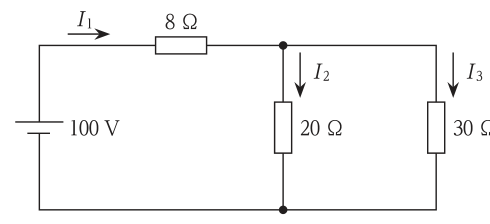
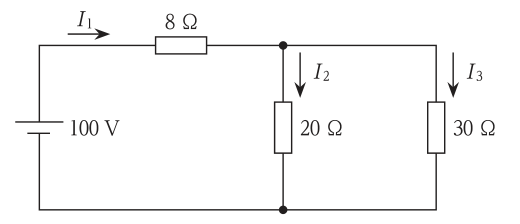
Fix sekou-2denki review findings (R7後期 No.1/19/22/54, R8前期 No.3 figure)
Claude-Session: https://claude.ai/code/session_01TieomDrMbKnngzErrXyir1

diff --git a/__tests__/questions/denki2-latest2.test.ts b/__tests__/questions/denki2-latest2.test.ts
@@ -49,6 +49,37 @@ describe("sekou-2denki latest two official papers, staged", () => {
     }
   });
 
+  it("distinguishes the 20 A and 15 A 250 V outlet figures in R7 late No.19", () => {
+    const q = DENKI2_QUESTIONS.find(q => q.year === 2025 && q.qNumber === 19)!;
+    expect(q.answer).toBe("イ");
+    expect(q.choiceExplanations?.イ).toContain("250 V・20 A");
+    expect(q.choiceExplanations?.イ).toContain("単相200 V回路に使用できる");
+    expect(q.choices?.エ).toContain("左右が横スリット");
+    expect(q.choiceExplanations?.エ).toContain("250 V・15 A");
+    expect(q.choiceExplanations?.エ).toContain("20 A用ではない");
+    expect(q.explanation).toContain(q.choiceExplanations!.イ!);
+  });
+
+  it("explains why earth-fault current is least related in R7 late No.22", () => {
+    const q = DENKI2_QUESTIONS.find(q => q.year === 2025 && q.qNumber === 22)!;
+    expect(q.answer).toBe("ウ");
+    expect(q.choices?.ウ).toBe("地絡電流");
+    expect(q.choiceExplanations?.ウ).toContain("中性点非接地");
+    expect(q.choiceExplanations?.ウ).toContain("最も関係のないもの");
+    expect(q.choiceExplanations?.エ).toContain("遮断器か限流ヒューズか");
+    expect(q.choiceExplanations?.エ).toContain("太さを選定する");
+    expect(q.explanation).toContain(q.choiceExplanations!.ウ!);
+  });
+
+  it("preserves the reciprocal temperature unit and the answer insertion slot", () => {
+    const rows = DENKI2_QUESTIONS.filter(q => q.year === 2025);
+    expect(rows.find(q => q.qNumber === 1)!.question).toContain("0.004 ℃⁻¹");
+    const blank = rows.find(q => q.qNumber === 54)!;
+    expect(blank.question).toMatch(/10 kW 以上\s*〔空欄〕未満/);
+    const key = Array.isArray(blank.answer) ? blank.answer[0] : blank.answer;
+    expect(key ? blank.choices?.[key as keyof NonNullable<typeof blank.choices>] : undefined).toBe("50 kW");
+  });
+
   it("registers the owner-approved qualification while keeping every public registry gated", async () => {
     expect(getQualificationByExamCode("denki2")).toMatchObject({slug: "sekou-2denki", status: "ready-to-ingest"});
     expect(isExamPublished("denki2")).toBe(false);

diff --git a/reports/sekou-2denki/finalize-source.py b/reports/sekou-2denki/finalize-source.py
@@ -6,7 +6,7 @@ from pathlib import Path
 import pymupdf as fitz
 ROOT=Path(__file__).resolve().parents[2]
 FIGURES={
- '2026-early':{2:(2,[170,373,465,466]),3:(3,[190,173,435,285]),13:(7,[155,150,445,309]),22:(10,[115,150,520,568]),35:(14,[155,315,480,465]),36:(15,[135,163,325,329]),39:(16,[143,162,485,349])},
+ '2026-early':{2:(2,[170,373,465,466]),3:(3,[190,173,450,285]),13:(7,[155,150,445,309]),22:(10,[115,150,520,568]),35:(14,[155,315,480,465]),36:(15,[135,163,325,329]),39:(16,[143,162,485,349])},
  '2025-late':{2:(2,[180,390,465,475]),3:(3,[185,190,440,300]),15:(7,[215,211,415,383]),19:(8,[105,480,425,648]),21:(9,[190,413,435,597]),31:(13,[145,313,435,487]),33:(14,[105,330,500,625]),34:(15,[180,155,450,313]),35:(15,[205,470,430,661]),36:(16,[130,179,305,370]),38:(17,[160,170,480,431]),39:(18,[105,192,525,372]),49:(22,[230,154,405,336]),50:(23,[210,156,420,336])}}
 ledger=[]
 for edition,y in [('2026-early','08'),('2025-late','07')]:
@@ -22,7 +22,7 @@ for edition,y in [('2026-early','08'),('2025-late','07')]:
   q(36)['choices']=['図1（枠内ATT） ― 局線中継台','図2（枠内IDF） ― ハブ','図3（枠内TA） ― ターミナルアダプタ','図4（枠内に横線） ― 端子盤']
   q(56)['choices'][3]=q(56)['choices'][3].replace('mm2','mm²')
  else:
-  q(1)['question']=q(1)['question'].replace('℃-1','℃⁻¹')
+  q(1)['question']=q(1)['question'].replace('℃-1','℃⁻¹').replace('℃－1','℃⁻¹')
   q(2)['question']='図に示すように，真空中に点電荷Q₁及びQ₂がある。この二つの点電荷の間に働く静電力Fの大きさ〔 N 〕として，正しいものはどれか。\nただし，真空の誘電率をε₀とするとき，4πε₀＝1/(9×10⁹) F/mであるものとする。'
   q(3)['question']='図に示す単相交流回路において，抵抗Rの両端の電圧V_Rの値〔 V 〕として，正しいものはどれか。\nただし，電圧Eの実効値は100 V，抵抗Rは8 Ω，誘導性リアクタンスX_Lは6 Ωとする。'
   q(4)['question']=q(4)['question'].split('\n  100')[0]
@@ -30,7 +30,8 @@ for edition,y in [('2026-early','08'),('2025-late','07')]:
   q(8)['question']='配電系統に関する用語として，次の計算式により求められるものはどれか。\n最大需要電力〔 kW 〕/設備容量〔 kW 〕×100〔 ％ 〕'
   q(15)['question']='図に示す三相3線式配電線路の送電端電圧V_s〔 V 〕と受電端電圧V_r〔 V 〕の間の電圧降下v〔 V 〕を表す簡略式として，正しいものはどれか。\nただし，各記号は，次のとおりとする。\nR：1線当たりの抵抗〔 Ω 〕　X：1線当たりのリアクタンス〔 Ω 〕\ncosθ：負荷の力率　I：線電流〔 A 〕'
   q(15)['choices']=['v＝(1/√3)I(Rsinθ＋Xcosθ)〔 V 〕','v＝(1/√3)I(Rcosθ＋Xsinθ)〔 V 〕','v＝√3I(Rsinθ＋Xcosθ)〔 V 〕','v＝√3I(Rcosθ＋Xsinθ)〔 V 〕']
-  q(19)['choices']=['図1（左が兼用スリット、右が縦スリット、下に接地極）','図2（左が縦スリット、右が横スリット、下に接地極）','図3（左右が縦スリット、下に接地極）','図4（左が兼用スリット、右が横スリット、下に接地極）']
+  q(19)['choices']=['図1（左が兼用スリット、右が縦スリット、下に接地極）','図2（左が縦スリット、右が横スリット、下に接地極）','図3（左右が縦スリット、下に接地極）','図4（左右が横スリット、下に接地極）']
+  q(54)['question']=q(54)['question'].replace('　　　　','〔空欄〕').replace('10 kW 以上\n未満','10 kW 以上〔空欄〕未満')
   q(33)['choices']=['図1（脚部ごとの底部を広げた基礎）','図2（斜面で深い縦穴に築造する基礎）','図3（支持層まで杭を到達させる基礎）','図4（左右の脚部を共通の底版で支える基礎）']
   q(36)['question']=q(36)['question'].replace('\n  図記号　　  名　称','')
   q(36)['choices']=['図1（円に左から1本・下へ3本の接続線） ― 4分配器','図2（三角形） ― 増幅器','図3（放物面アンテナの図記号） ― パラボラアンテナ','図4（二重円） ― 直列ユニット（75 Ω）']

diff --git a/reports/sekou-2denki/verify-source.py b/reports/sekou-2denki/verify-source.py
@@ -26,5 +26,15 @@ for edition,y in [('2026-early','08'),('2025-late','07')]:
   if 'imageUrl' in q:assert (ROOT/'public'/q['imageUrl'].lstrip('/')).is_file()
  result.append({'edition':edition,'questionCount':len(d['questions']),'answerPdfPage':len(doc),'answerByNumber':answers,'matchingAnswers':62,'choiceExplanationCount':sum(len(q['choiceExplanations']) for q in d['questions']),'figureCount':sum('imageUrl' in q for q in d['questions'])})
 assert sum(r['questionCount'] for r in result)==124
+# No.3's 30 Ω label must have whitespace at its right, rather than hit the crop edge.
+# The rejected 490 px crop has nonwhite pixels in this margin; the complete crop is 520 px.
+figure=next(f for f in json.loads((ROOT/'reports/sekou-2denki/figures.json').read_text()) if f['edition']=='2026-early' and f['number']==3)
+doc=fitz.open('/tmp/srcpdf/sekou-2denki/r08_2dgz_mondai.pdf')
+rendered=doc[figure['pdfPage']-1].get_pixmap(matrix=fitz.Matrix(2,2),clip=fitz.Rect(figure['rect']))
+stored=fitz.Pixmap(str(ROOT/'public'/figure['imageUrl'].lstrip('/')))
+assert (stored.width,stored.height,stored.samples)==(rendered.width,rendered.height,rendered.samples)
+pixels=stored.samples
+assert all(pixels[(y*stored.width+x)*stored.n+c]==255 for y in range(stored.height) for x in range(stored.width-8,stored.width) for c in range(stored.n)), 'No.3: 30 Ω label touches right crop edge'
 (ROOT/'reports/sekou-2denki/source-check.json').write_text(json.dumps(result,ensure_ascii=False,indent=2)+'\n')
 print('PASS: 124/124 official answers, 504 choice explanations, 21 figures, source URLs and PDF SHA256')
+print('PASS: R8 early No.3 reproduces the PDF crop with a clear right margin')

diff --git a/reports/cloud-sekou-2denki-review-fixes.md b/reports/cloud-sekou-2denki-review-fixes.md
@@ -1,0 +1,50 @@
+# sekou-2denki 独立レビュー1回目への修正記録
+
+作業日: 2026-11-03 UTC。対象は追加コミット `1ad5b51` の124問。
+元の独立レビュー `cloud-sekou-2denki-review.md` は保持。本書は修正担当の検証記録であり、再独立レビューの結果ではない。コミットは行っていない。
+
+## 6件の修正
+
+| 指摘 | 修正 | 公式PDFの確認箇所 |
+| --- | --- | --- |
+| R7後期 No.19 解説 | 図2を定格250 V・20 A、単相200 V用として説明。図4は定格250 V・15 Aのため設問の20 A用には該当しないと説明。全体解説も図2の理由に一致させた。 | p.8、正答p.29（2） |
+| R7後期 No.19 図4の補足 | 「左右が横スリット、下に接地極」に訂正。 | p.8 |
+| R7後期 No.22 解説 | 地絡電流は一般的な中性点非接地の高圧配電系統では小さく、他の3項目に比べ太さ選定と直接の関係が薄いと説明。主遮断装置の種類は短絡電流の通過時間・エネルギーに関係するため、選定時に検討することを説明。全体解説も訂正。 | p.10、正答p.29（3） |
+| R7後期 No.54 空欄 | 冒頭の空欄参照と「10 kW以上〔空欄〕未満」の挿入位置を明示。 | p.25 |
+| R8前期 No.3 図 | PDF切り抜きの右端を435から450 ptへ拡張。「30 Ω」全体を画像で確認。520×224 px。図台帳の座標とSHA-256も更新。 | p.3 |
+| R7後期 No.1 単位 | `0.004 ℃－1` を `0.004 ℃⁻¹` に訂正。 | p.2 |
+
+指定ローカルPDF `/tmp/srcpdf/sekou-2denki/` を使用。PDFと巻末正答のSHA-256・全124正答の一致を再確認した。
+再生成時にも修正が残るよう、`finalize-source.py` と `explanations-2025.txt` を更新した。`segment-source.py` → `finalize-source.py` の順に再生成し、問題データの差分が上記対象だけであることを確認した。
+
+技術説明の補助確認として、[Panasonicのコンセント解説・極形状図](https://www2.panasonic.biz/jp/basics/electric/electricity/electrical-outlet/)と、ケーブルの短絡耐量と遮断装置の保護協調を説明する[オムロンの保護継電器技術解説](https://www.fa.omron.co.jp/guide/technicalguide/65/148/)を参照した。
+
+## 全124問・504肢の再点検
+
+両回のNo.1〜62について、全肢解説を通読し、設問の向き、公式正答肢を選ぶ理由、他肢を選ばない理由、全体解説の整合を確認した。指摘のNo.19・No.22以外に、同種の矛盾は見つからなかった。
+
+保存済みのPDF抽出本文とJSONで、否定形（不適当・誤り・関係がない・定められていない・該当しない）の有無を全問比較した。R7後期は否定形37問／その他25問、R8前期は否定形45問／その他17問で一致。全体解説の正答番号・ア〜オ表記と、正答肢の個別解説との一致も124問すべて確認した。
+
+「最も関係のないもの」の4問は、他肢が設問の対象に関係することも再確認した。
+
+| 回・No. | 正答 | 解説の向きの確認 |
+| --- | --- | --- |
+| R7後期22 | 3 地絡電流 | 上記のとおり修正。許容電流、短絡電流、主遮断装置の種類は太さ選定の検討項目。 |
+| R7後期23 | 1 架空地線 | 設問のJIS用語は架空線。等電位ボンディング、保護角法、接地極は雷保護システムの用語。 |
+| R8前期21 | 4 接地抵抗 | 接地設備の性能であり、幹線太さの直接の選定条件ではない。他肢の電圧降下・許容電流・周囲温度は選定に関係する。 |
+| R8前期32 | 1 揚貨装置 | 移動式クレーンの安全装置ではない。他肢の外れ止め・巻過警報・過負荷防止は安全装置。 |
+
+R7後期No.9の公式正答4も維持。試験でのLEDの特徴比較と、実機では高温劣化・放熱の考慮が必要であることを併記した既存解説は、無条件に温度影響を否定していない。
+
+## 実行結果
+
+すべて終了コード0。
+
+- `pnpm validate:questions`: 26,568問、ok=26,568 / fail=0 / warn=16,874。
+- `pnpm validate:questions --exam=denki2`: 124問、ok=124 / fail=0 / warn=66。警告は解説50文字未満65件、R7後期No.9の「公式正答は4」の言い回し検出1件。
+- `pnpm exec vitest run __tests__/questions/denki2-latest2.test.ts __tests__/lib/exam-config-integrity.test.ts __tests__/questions/get-questions.test.ts`: 3ファイル、102テスト成功。No.19・22、No.1の単位、No.54の空欄の回帰テストを追加。
+- `PYTHONPATH=/tmp/sekou-python python3 reports/sekou-2denki/verify-source.py`: 124正答、504肢解説、21図、PDFのSHA-256、出典URLを確認。No.3画像と指定PDF領域の画素一致、右端8 pxの余白を追加検査。旧画像は右端に非白色画素が残り、修正画像は余白を満たす。
+- `node reports/sekou-2denki/verify-runtime.cjs /opt/node22/lib/node_modules/typescript`: 問題変換、選択肢・解説、画像、公開ゲートの検査成功。
+- `git diff --check`: 成功。
+
+独立再レビュー・コミットは監督役に引き継ぐ。
